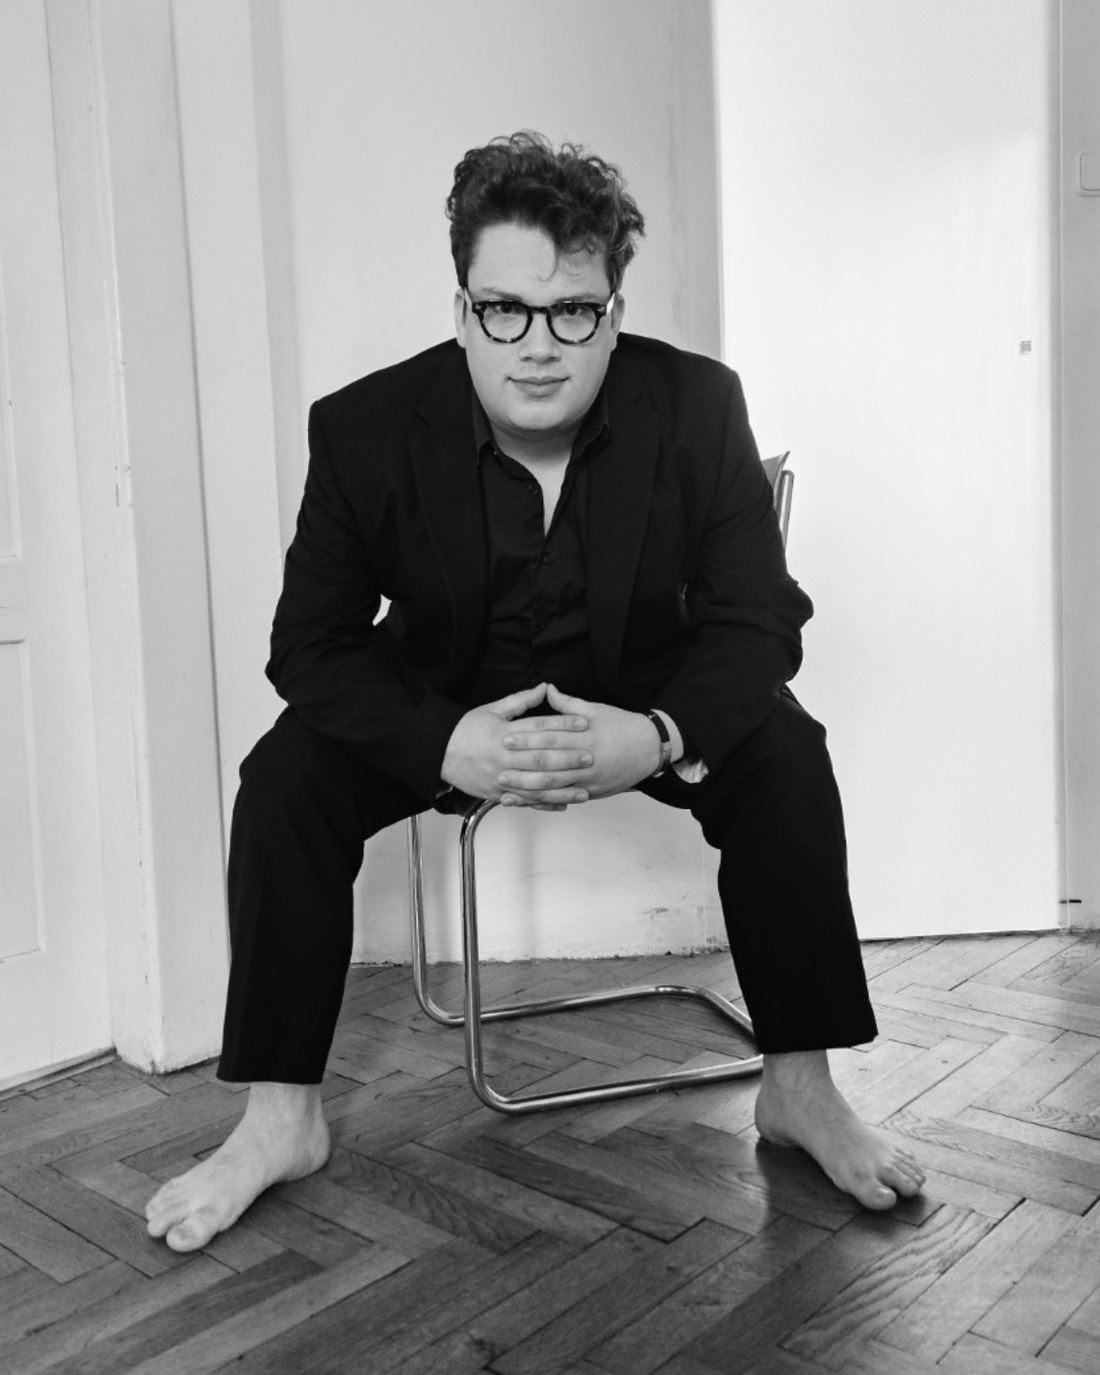
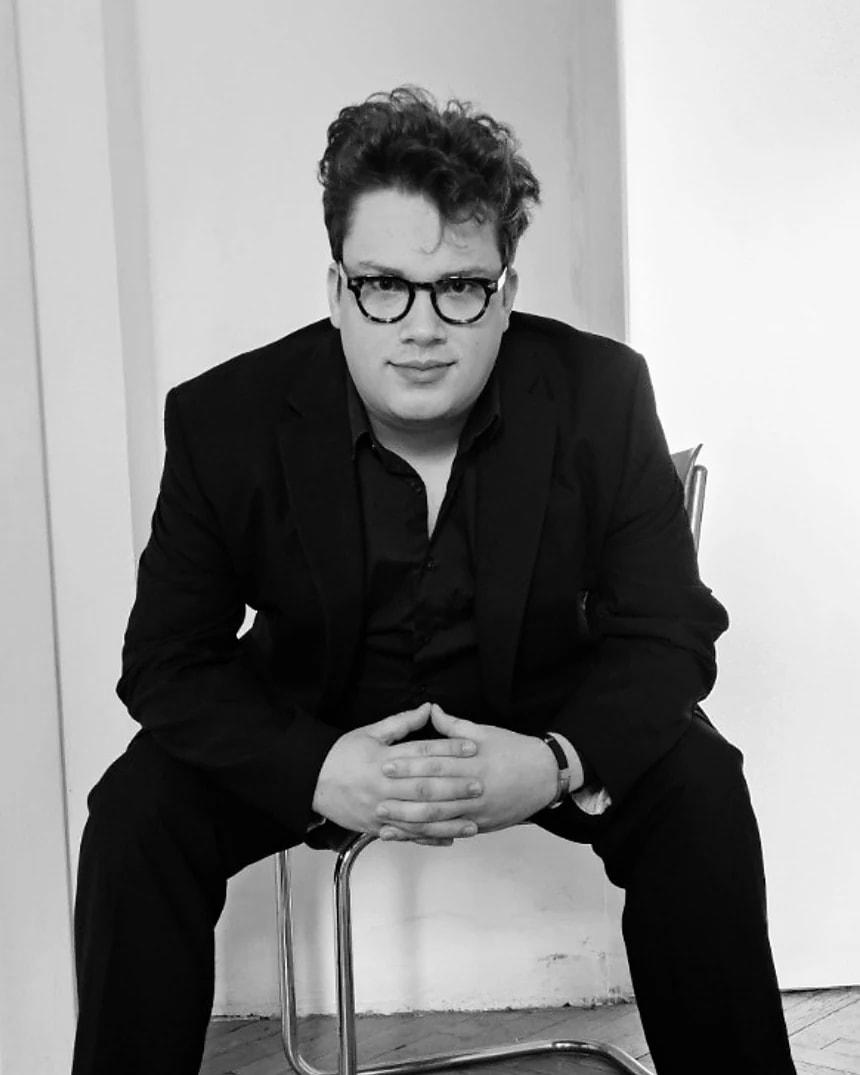
Nová úvodní fotka

diff --git a/src/components/Hero.tsx b/src/components/Hero.tsx
@@ -69,8 +69,8 @@ export function Hero() {
               priority
               sizes="(max-width: 960px) 100vw, 44vw"
               alt={{
-                cs: "Černobílý portrét Matthewa Grygara v černém obleku, sedí bos na kovové židli, předkloněný se sepjatýma rukama",
-                en: "Black-and-white portrait of Matthew Grygar in a black suit, sitting barefoot on a tubular steel chair, leaning forward with hands clasped",
+                cs: "Černobílý portrét Matthewa Grygara v brýlích a černém obleku, sedí na kovové židli, předkloněný se sepjatýma rukama a dívá se do objektivu",
+                en: "Black-and-white portrait of Matthew Grygar in glasses and a black suit, sitting on a tubular steel chair, leaning forward with hands clasped, looking into the camera",
               }}
             />
           </div>

diff --git a/src/components/Hero.module.css b/src/components/Hero.module.css
@@ -47,7 +47,7 @@
   margin-right: calc(-1 * max(var(--gut), env(safe-area-inset-right, 0px))); position: relative; z-index: 1;
 }
 .frame { position: relative; overflow: hidden; aspect-ratio: 1229 / 1536; max-width: 100%; background: var(--paper-2); }
-.frame img { width: 100%; height: 100%; object-fit: cover; object-position: 52% 40%; }
+.frame img { width: 100%; height: 100%; object-fit: cover; object-position: 50% 30%; }
 @media (min-width: 1700px) {
   .photo { margin-right: calc((100vw - var(--max)) / -2 - max(var(--gut), env(safe-area-inset-right, 0px))); }
 }
